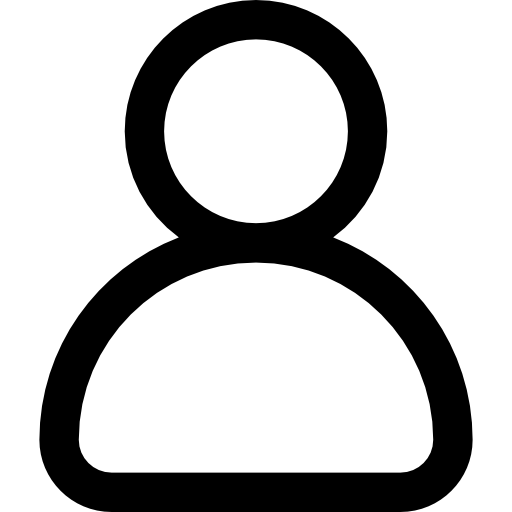
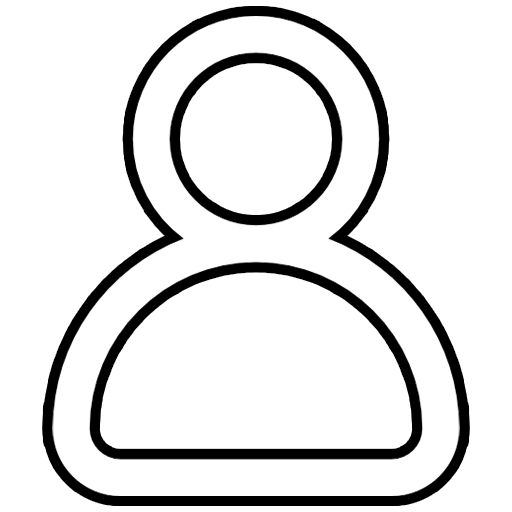
db queries file added

Changed region(s): [[0.0625, 0.0, 0.9375, 1.0]]

diff --git a/Php/external/PhpFinalProject/res/style.css b/Php/external/PhpFinalProject/res/style.css
@@ -126,8 +126,9 @@ button {
     text-decoration: none;
     background-color: transparent;
     border-bottom: 0.2vmax solid white;
+    background-color: rgba(114, 114, 114, 0.5);
     background-position: center;
-    background-size: 80%;
+    background-size: 90%;
     background-repeat: no-repeat;
 }
 
@@ -144,5 +145,24 @@ button {
 .bgimg {
     background-position: center;
     background-repeat: no-repeat;
-    background-size: 90%;
+    background-size: contain;
+}
+
+.whatisnextbtn ,.whatisnextbtn *{
+    transition: 0.3s;
+    color: white;
+    background-position: left;
+    background-size: 10%;
+}
+.whatisnextbtn:hover {
+    background-image: url("./next.png");
+    color: rgba(255, 255, 255);
+    background-position: center;
+}
+.whatisnextbtn:hover :nth-child(1) {
+    width:100%;
+    height:100%;
+    background-color: rgba(0, 0, 0, 0.6);
+    align-content: center;
+    font-size: 1.4rem;
 }

diff --git a/Php/external/PhpFinalProject/profile.php b/Php/external/PhpFinalProject/profile.php
@@ -35,15 +35,41 @@ if (!isset($_SESSION["authed"])) {
             }
         }
         ?>
-        <div class="bgimg" style="width: 5vmax;height:5vmax;border:0.3vmax solid white;background-color: rgba(255,255,255,0.5);margin:1vmax;border-radius: 0.5vmax;<?php getUserImage($_SESSION["user"]); ?>">
+        <div class="d-flex flex-row w-100 p-2">
+            <div class="bgimg" style="width: 10vmax;height:10vmax;border:0.3vmax solid white;background-color: rgba(255,255,255,0.5);border-radius: 0.5vmax;<?php getUserImage($_SESSION["user"]); ?>"></div>
+            <p class="p-1">
+                <?php
+                foreach (getUser($_SESSION["user"]) as $key => $value) {
+                    echo $key . " : " . $value . "<br>";
+                }
+                ?>
+            </p>
+        </div>
+        <div class="d-flex flex-column w-100 justify-content-center align-items-center">
+            <form method="post" enctype="multipart/form-data" class="d-flex flex-column align-items-center">
+                <h2>change profile photo</h2>
+                <input id="pfpslct" onchange="onProfileImageSelected()" class="w-100" type="file" name="pfp" title="select file" accept="image/jpeg, image/png">
+                <button class="w-100 p-1" type="submit" name="updatePfp" value="1">update photo</button>
+                <p class="w-100 bg-dark p-1">size limit : <?php echo $sizeLimit . "mb" ?></p>
+                <h6>selected image</h6>
+                <div id="selectedImage" class="bgimg" style="width: 7vmax;height:7vmax;border:0.3vmax solid orange;background-color: rgba(255, 68, 0, 0.5);border-radius: 0.5vmax;"></div>
+            </form>
 
         </div>
-        <form method="post" enctype="multipart/form-data" class="d-flex flex-column" style="width: min-content;">
-            <input type="file" name="pfp" title="select file" accept="image/jpeg, image/png">
-            <button type="submit" name="updatePfp" value="1">update photo</button>
-            size limit is <?php echo $sizeLimit . "mb" ?>
-        </form>
     </div>
 </body>
+<script>
+    function onProfileImageSelected() {
+        var pfpfile = document.getElementById("pfpslct");
+        var pfpimg = document.getElementById("selectedImage");
+        if (pfpfile.files[0]) {
+            var reader = new FileReader();
+            reader.onload = function(e) {
+                pfpimg.style.backgroundImage = "url('" + e.target.result + "')";
+            }
+            reader.readAsDataURL(pfpfile.files[0]);
+        }
+    }
+</script>
 
 </html>

diff --git a/Php/external/PhpFinalProject/home.php b/Php/external/PhpFinalProject/home.php
@@ -7,7 +7,7 @@ if (isset($_POST["logout"])) {
     unset($_SESSION["authed"]);
     header("location:index.php");
 }
-$user = selectData("select id,name,email from users where id= " . $_SESSION["user"] . ";");
+$user = getUser($_SESSION["user"]);
 ?>
 <html>
 
@@ -20,18 +20,29 @@ $user = selectData("select id,name,email from users where id= " . $_SESSION["use
 <body style="display:grid;grid-template-rows: min-content auto;">
     <div class="home-navbar">
         <a title="Profile" href="./profile.php" class="home-profile-img" style="<?php getUserImage($user["id"]); ?>"></a>
-        <form method="post"  class="h-100 bg-dark m-0 p-0">
+        <a title="Home" href="./" class="align-content-center text-center rounded rounded-3 text-decoration-none h-100 border border-5 overflow-hidden border-secondary whatisnextbtn" style="aspect-ratio:3/1;">
+            <p class="m-0">What Is Next</p>
+        </a>
+        <form method="post" class="h-100 bg-dark m-0 p-0">
             <button type="submit" class="home-logout-btn" name="logout" value="1">Logout</button>
         </form>
     </div>
-    <div style="background-color: rgba(0,0,0,0.8);" class="d-flex w-100 overflow-auto p-2">
-        <?php
-        if (isset($_GET["view"])) {
-            require_once($_GET["view"]);
-        } else {
-
-        }
-        ?>
+    <div style="background-color: rgba(0,0,0,0.8);display:grid;grid-template-columns:20% auto;" class="w-100 overflow-auto">
+        <div class="bg-dark">
+            <a href="?view=sharenext.php">Share</a>
+        </div>
+        <div>
+            <?php
+            if (isset($_GET["view"])) {
+                if (file_exists($_GET["view"])) {
+                    require_once($_GET["view"]);
+                } else {
+                    echo "page not existing : 404";
+                }
+            } else {
+            }
+            ?>
+        </div>
     </div>
 </body>
 

diff --git a/Php/external/PhpFinalProject/managers/dbm.php b/Php/external/PhpFinalProject/managers/dbm.php
@@ -45,6 +45,10 @@ function addUser($name, $email, $password)
 {
     reqQuery("insert into users (name,email,password) values (\"" . $name . " \",\"" . $email . "\",\"" . $password . "\")");
 }
+function getUser($id)
+{
+    return selectData("select id,name from users where id= " . $id . ";");
+}
 function updateUserImage($image)
 {
     global $con;
